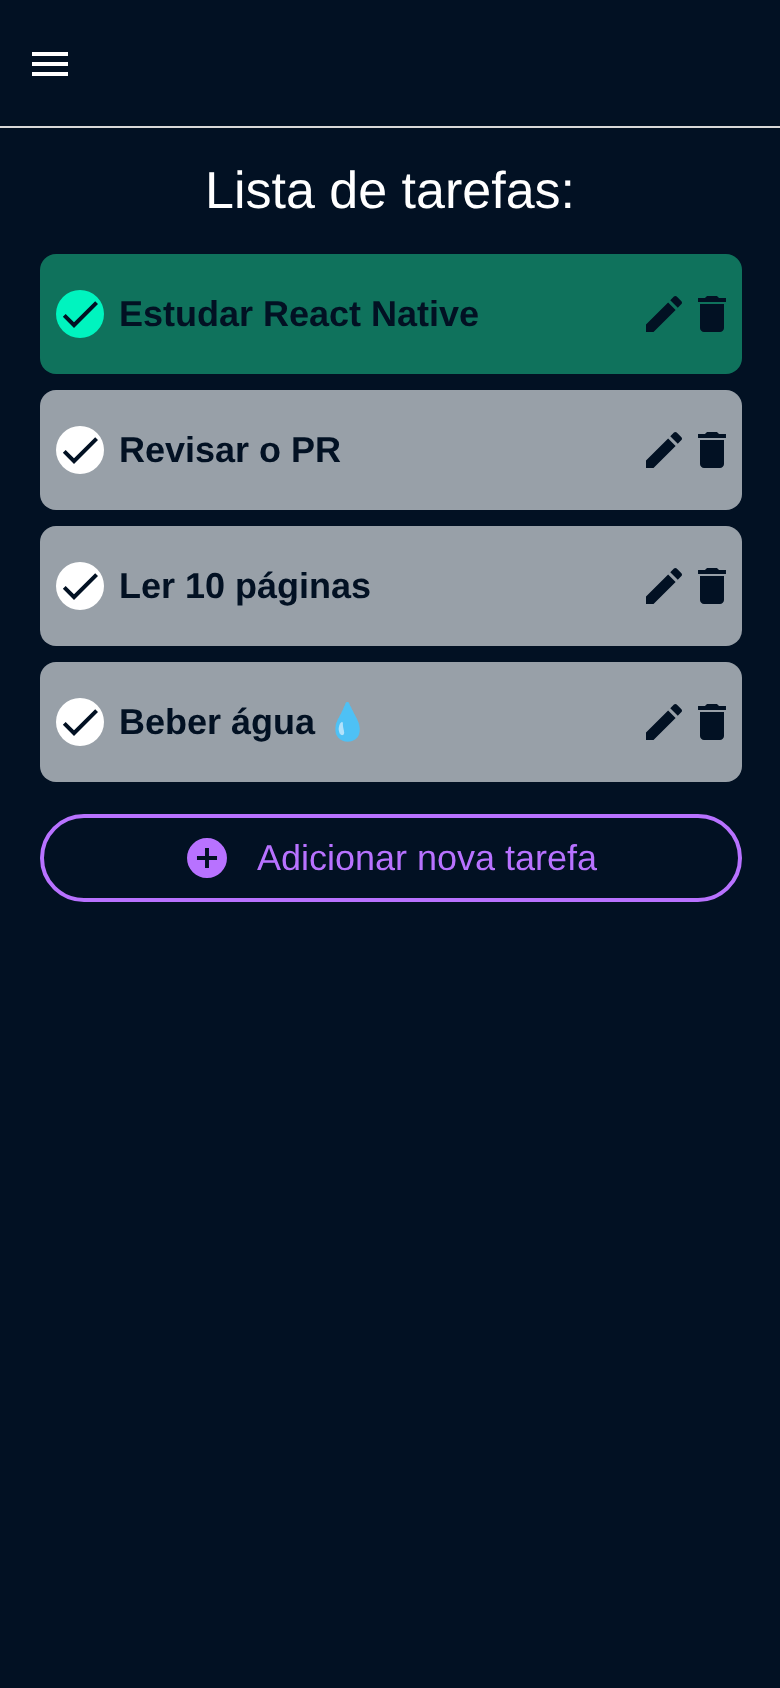
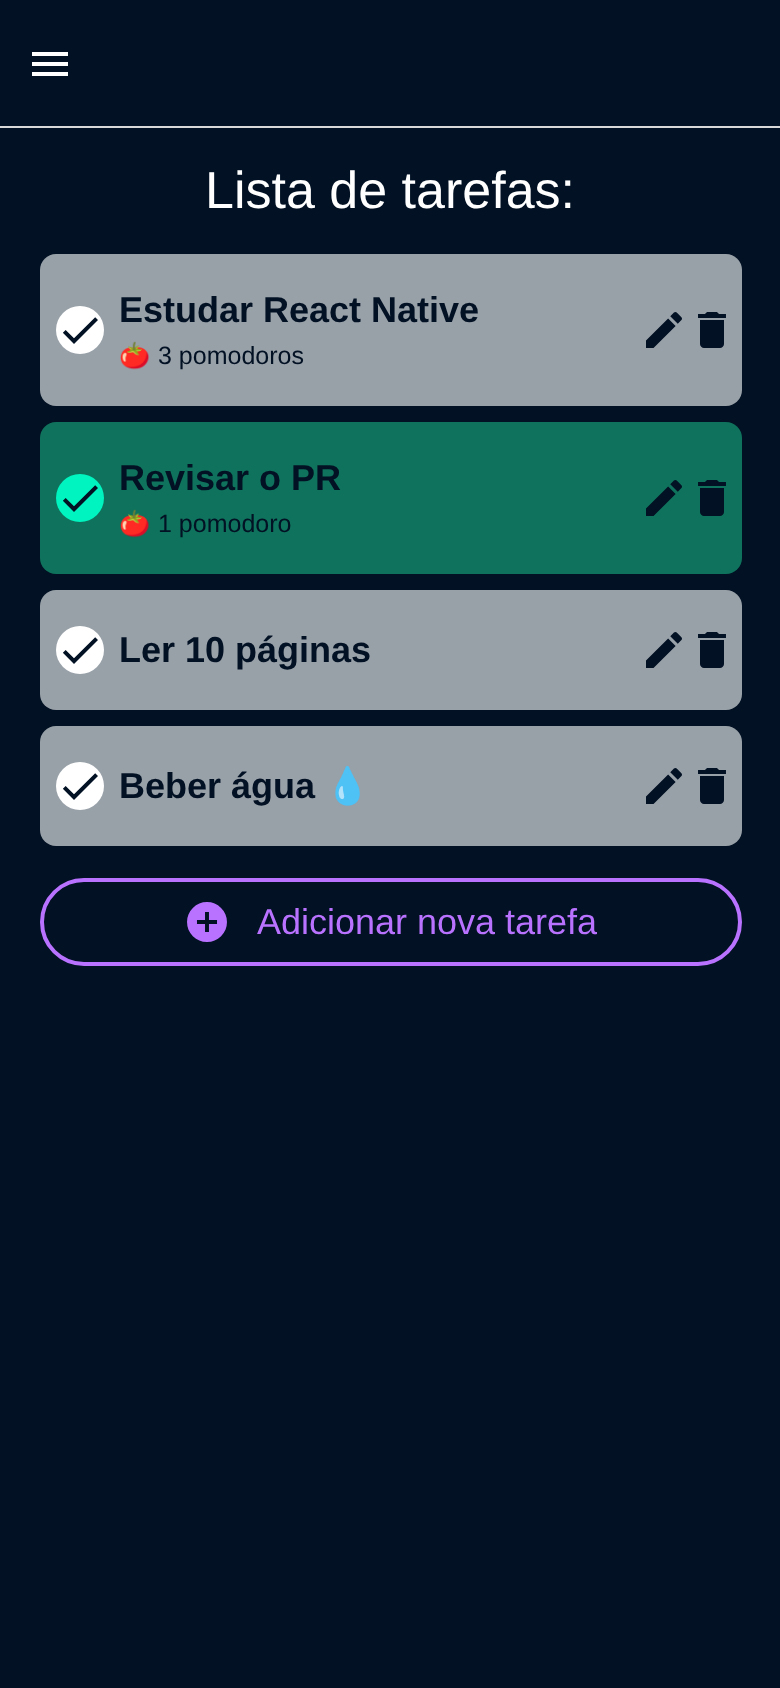
Update README, screenshots and CLAUDE.md for the new features

Changed region(s): [[0.0308, 0.1232, 0.9538, 0.5853]]

diff --git a/README.md b/README.md
@@ -20,6 +20,7 @@ Bloqueie a tela, guarde o celular e volte a focar. Quando o tempo acabar, o Foku
 ![Web](https://img.shields.io/badge/Web-✓-4285F4?style=flat-square&logo=googlechrome&logoColor=white)
 ![ESLint](https://img.shields.io/badge/lint-0_avisos-00F4BF?style=flat-square&logo=eslint&logoColor=white)
 ![Prettier](https://img.shields.io/badge/code_style-prettier-F7B93E?style=flat-square&logo=prettier&logoColor=black)
+![Jest](https://img.shields.io/badge/testes-16_passando-C21325?style=flat-square&logo=jest&logoColor=white)
 
 [Funcionalidades](#-funcionalidades) •
 [Telas](#-telas) •
@@ -36,9 +37,13 @@ Bloqueie a tela, guarde o celular e volte a focar. Quando o tempo acabar, o Foku
 
 | | |
 |---|---|
-| ⏱ **Três modos de timer** | Foco (25 min), Pausa curta (5 min) e Pausa longa (15 min), com ilustração própria para cada um |
+| ⏱ **Três modos de timer** | Foco, Pausa curta e Pausa longa, com ilustração própria para cada um |
+| 🔁 **Ciclos emendados** | Acabou o foco, a pausa começa sozinha; acabou a pausa, volta o foco. Dá para desligar nas configurações |
+| 🍅 **Contador do dia** | Bolinhas mostram quanto falta para a pausa longa, que vem a cada 4 focos (configurável) |
+| 🎯 **Foco em uma tarefa** | Escolha no que está trabalhando; cada foco concluído soma um 🍅 na tarefa |
+| ⚙ **Configurações** | Durações de cada modo, intervalo da pausa longa e o liga/desliga dos ciclos |
 | 🔒 **Funciona com a tela bloqueada** | O tempo é calculado a partir do horário de término, então nada se perde quando o celular dorme |
-| 🔔 **Notificação no fim do ciclo** | Agendada direto no sistema operacional: chega mesmo com o app em segundo plano ou fechado |
+| 🔔 **Notificação no fim do ciclo** | Agendada direto no sistema operacional: chega mesmo com o app em segundo plano ou fechado, avisando qual ciclo começou |
 | 💾 **Retoma de onde parou** | Fechou o app no meio do foco? Ao abrir, o timer continua certinho |
 | ✅ **Lista de tarefas completa** | Criar, editar, concluir e excluir, tudo salvo no aparelho |
 | 🎨 **Tema escuro com personalidade** | Paleta centralizada em um único arquivo, fácil de customizar |
@@ -53,9 +58,13 @@ Bloqueie a tela, guarde o celular e volte a focar. Quando o tempo acabar, o Foku
 |:---:|:---:|:---:|
 | <img src="docs/screenshots/home.png" width="230" alt="Tela inicial"> | <img src="docs/screenshots/timer.png" width="230" alt="Timer de foco em andamento"> | <img src="docs/screenshots/pausa-longa.png" width="230" alt="Modo pausa longa"> |
 
-| Suas tarefas | Nova tarefa |
-|:---:|:---:|
-| <img src="docs/screenshots/tarefas.png" width="230" alt="Lista de tarefas"> | <img src="docs/screenshots/nova-tarefa.png" width="230" alt="Formulário de nova tarefa"> |
+| No que você vai focar? | Suas tarefas | Configurações |
+|:---:|:---:|:---:|
+| <img src="docs/screenshots/escolher-tarefa.png" width="230" alt="Escolher a tarefa do foco"> | <img src="docs/screenshots/tarefas.png" width="230" alt="Lista de tarefas com pomodoros"> | <img src="docs/screenshots/configuracoes.png" width="230" alt="Tela de configurações"> |
+
+| Nova tarefa |
+|:---:|
+| <img src="docs/screenshots/nova-tarefa.png" width="230" alt="Formulário de nova tarefa"> |
 
 </div>
 
@@ -83,12 +92,18 @@ sequenceDiagram
     Note over App: Tempo certo, sem depender do setInterval
 ```
 
-1. **Horário de término, não contador.** O app guarda `endTime` e mostra sempre `endTime - agora`.
+1. **Horário de término, não contador.** O app guarda o horário em que cada ciclo termina e mostra
+   sempre `término - agora`. Com os ciclos emendados, ele planeja os próximos 8 ciclos de uma vez
+   (foco, pausa, foco...), então mesmo que você só abra o app 1 hora depois, ele sabe em qual
+   ciclo está e quantos focos você completou.
 2. **Recalcula ao voltar.** Um listener de `AppState` atualiza o tempo assim que o app fica ativo.
-3. **Quem avisa é o sistema.** A notificação local (`expo-notifications`) é agendada no iOS/Android,
-   que a entrega mesmo com o app suspenso. Pausar ou trocar de modo cancela o aviso.
+3. **Quem avisa é o sistema.** Uma notificação local (`expo-notifications`) é agendada no iOS/Android
+   para o fim de cada ciclo planejado, e ele entrega mesmo com o app suspenso. Pausar ou trocar de
+   modo cancela os avisos.
 
-Tudo isso vive em [`TimerProvider.jsx`](components/context/TimerProvider.jsx) e
+A lógica pura (planejar ciclos, decidir a próxima pausa, contar focos do dia) fica em
+[`timerLogic.js`](components/context/timerLogic.js), coberta por testes. O estado mora em
+[`TimerProvider.jsx`](components/context/TimerProvider.jsx) e as notificações em
 [`timerNotifications.js`](components/context/timerNotifications.js).
 
 ---
@@ -127,6 +142,8 @@ Escaneie o QR code com o Expo Go e pronto. 🎉
 |---|---|
 | `npm start` | Inicia o Expo (Expo Go, emulador ou web) |
 | `npm run android` / `npm run ios` / `npm run web` | Abre direto na plataforma |
+| `npm test` | Roda os testes (Jest + jest-expo) |
+| `npm run test:watch` | Testes em modo observação |
 | `npm run lint` | ESLint com as regras do Expo |
 | `npm run format` | Formata o código com Prettier |
 
@@ -140,24 +157,29 @@ fokus/
 │   ├── _layout.jsx              #    Providers + menu lateral (Drawer)
 │   ├── index.jsx                #    Boas-vindas
 │   ├── pomodoro.jsx             #    Timer
+│   ├── settings.jsx             #    Configurações
 │   ├── tasks/index.jsx          #    Lista de tarefas
 │   ├── add-task/index.jsx       #    Nova tarefa
 │   └── edit-task/[id].jsx       #    Editar tarefa
 ├── components/                  # 🧩 Componentes visuais (dados e ações via props)
-│   ├── FokusButton/  ActionButton/  Timer/  TaskItem/  FormTask/  Icons/ ...
+│   ├── FokusButton/  Timer/  TaskItem/  TaskPicker/  PomodoroCounter/
+│   ├── SettingRow/  Stepper/  FormTask/  Icons/ ...
 │   └── context/                 # 🧠 Estado global
+│       ├── SettingsProvider.jsx #    Configurações + AsyncStorage
 │       ├── TaskProvider.jsx     #    Tarefas + AsyncStorage
-│       ├── TimerProvider.jsx    #    Timer + AsyncStorage + notificação
+│       ├── TimerProvider.jsx    #    Timer, ciclos, contador + notificações
+│       ├── timerLogic.js        #    Regras puras do timer (testadas)
 │       └── timerNotifications.js
 ├── constants/                   # 🎛 Configuração
 │   ├── theme.js                 #    Cores, fontes e raios
+│   ├── settings.js              #    Configurações padrão e limites
 │   └── pomodoro.js              #    Modos do timer e textos das notificações
 └── docs/                        # 🖼 Imagens deste README
 ```
 
 **Como as peças se encaixam:**
 
-- 🧭 **Telas finas**: pegam dados de um hook (`useTaskContext`, `useTimerContext`) e montam a UI.
+- 🧭 **Telas finas**: pegam dados de um hook (`useTaskContext`, `useTimerContext`, `useSettingsContext`) e montam a UI.
 - 🧠 **Um Provider por domínio**: estado, persistência no `AsyncStorage` e ações ficam juntos.
 - 🧩 **Componentes burros**: recebem tudo por props e nunca acessam o contexto.
 - 📝 **Um formulário para criar e editar**: `FormTask` muda só pelo `defaultValue`.
@@ -187,18 +209,22 @@ Quer usar esse mesmo padrão em outro app? Tem uma skill pronta em
 - [x] Lista de tarefas com persistência local
 - [x] Timer que sobrevive à tela bloqueada
 - [x] Notificação no fim de cada ciclo
-- [ ] Emendar automaticamente foco → pausa → foco
-- [ ] Vincular uma tarefa ao pomodoro em andamento
-- [ ] Contador de pomodoros concluídos por dia
-- [ ] Durações personalizáveis
-- [ ] Testes automatizados com `jest-expo`
+- [x] Emendar automaticamente foco → pausa → foco (com opção de desligar)
+- [x] Vincular uma tarefa ao pomodoro em andamento
+- [x] Contador de pomodoros concluídos por dia
+- [x] Durações personalizáveis
+- [x] Testes automatizados com `jest-expo`
+- [ ] Histórico da semana com gráfico
+- [ ] Sons diferentes para foco e pausa
+- [ ] Widget na tela inicial do celular
 
 ---
 
 ## 🙌 Créditos
 
 Projeto nascido no curso de **React Native da [Alura](https://www.alura.com.br/)** e evoluído
-com timer em segundo plano, notificações, persistência do timer, tema centralizado e lint.
+com timer em segundo plano, notificações, ciclos emendados, contador diário, tarefas vinculadas
+ao foco, configurações, testes, tema centralizado e lint.
 
 <div align="center">
 

diff --git a/CLAUDE.md b/CLAUDE.md
@@ -9,6 +9,7 @@ UI em português (pt-BR).
 npm install
 npx expo start        # Expo Go, emulador ou web
 npx expo run:ios      # build nativo (passo a passo em Documentos/)
+npm test              # Jest (jest-expo); testes em *.test.js ao lado do código
 npm run lint          # ESLint (eslint-config-expo); precisa passar sem avisos
 npm run format        # Prettier em app/, components/ e constants/
 ```
@@ -19,7 +20,8 @@ npm run format        # Prettier em app/, components/ e constants/
 app/                       # rotas do expo-router (uma tela por arquivo)
   _layout.jsx              # Providers + GestureHandlerRootView + Drawer
   index.jsx                # landing, sem header e fora do menu
-  pomodoro.jsx             # tela do timer
+  pomodoro.jsx             # tela do timer (tarefa do foco, contador do dia)
+  settings.jsx             # configurações (ciclos e durações)
   tasks/index.jsx          # lista de tarefas
   add-task/index.jsx       # criar tarefa (usa FormTask)
   edit-task/[id].jsx       # editar tarefa (usa FormTask com defaultValue)
@@ -29,12 +31,16 @@ components/
   context/
     TaskProvider.jsx       # estado das tarefas + AsyncStorage ("fokus-tasks")
     useTaskContext.js
-    TimerProvider.jsx      # estado do timer + AsyncStorage ("fokus-timer")
+    SettingsProvider.jsx   # configurações + AsyncStorage ("fokus-settings")
+    useSettingsContext.js
+    TimerProvider.jsx      # timer, ciclos, contador do dia + AsyncStorage ("fokus-timer")
     useTimerContext.js
-    timerNotifications.js  # agendar/cancelar notificação local (expo-notifications)
+    timerLogic.js          # funções puras do timer, testadas em timerLogic.test.js
+    timerNotifications.js  # agendar/cancelar notificações locais (expo-notifications)
 constants/
   theme.js                 # cores (colors), tamanhos de fonte (fontSizes) e raios (radii)
-  pomodoro.js              # modos do timer: id, duração, imagem, texto e notificação
+  settings.js              # configurações padrão e limites
+  pomodoro.js              # modos do timer: id, imagem, texto e notificação
 Documentos/                # tutoriais de build iOS
 docs/                      # banner e screenshots usados no README
 .claude/skills/expo-app-pattern/  # padrão de arquitetura para reutilizar em outros apps
@@ -47,13 +53,20 @@ docs/                      # banner e screenshots usados no README
   visuais não acessam contexto.
 - **Persistência**: o Provider lê o AsyncStorage ao montar e só grava depois de
   `isLoaded`, para não sobrescrever os dados salvos com o estado inicial.
-- **Timer**: o `TimerProvider` guarda o horário de término (`endTime`), não um contador. O
-  tempo restante é recalculado a partir dele a cada tick e quando o app volta para
-  primeiro plano (`AppState`). Por isso o tempo fica certo mesmo com a tela bloqueada,
-  quando o JS do app fica suspenso.
-- **Notificação**: ao iniciar, uma notificação local é agendada para `endTime` no sistema
-  operacional, que a entrega mesmo com o app suspenso ou fechado. Pausar ou trocar de modo
-  cancela a notificação. A permissão é pedida na primeira vez que o timer inicia.
+- **Ordem dos Providers** (`_layout.jsx`): `SettingsProvider` > `TasksProvider` > `TimerProvider`,
+  porque o timer lê as configurações e soma pomodoros nas tarefas.
+- **Timer**: ao dar play, `buildPlan` monta os ciclos com horário de término
+  (`segments: [{ typeId, endTime }]`): só o atual, ou os próximos 8 se "Emendar ciclos" estiver
+  ligado. O tempo exibido e o ciclo atual são derivados de `Date.now()` a cada tick e quando o
+  app volta para primeiro plano (`AppState`), então tudo continua certo com a tela bloqueada ou
+  o app fechado. Ciclos que terminaram são contabilizados uma vez só (`processed` + ref): somam
+  no contador do dia (`stats`) e, se for foco, na tarefa escolhida (`pomodoros`).
+- **Fim do plano**: o timer para no próximo modo sugerido (pausa longa a cada
+  `longBreakInterval` focos do dia).
+- **Durações**: vêm das configurações; `pausedSeconds = null` significa "duração cheia", então
+  mudar a configuração reflete na hora quando o timer não foi iniciado.
+- **Notificação**: uma por ciclo planejado, agendada no sistema operacional. Pausar ou trocar de
+  modo cancela todas. A permissão é pedida no primeiro play.
 - **Navegação**: Drawer do expo-router. Telas de adicionar/editar ficam escondidas do menu
   (`drawerItemStyle: { display: "none" }`) e têm `BackButtonDrawer` no header.
 
